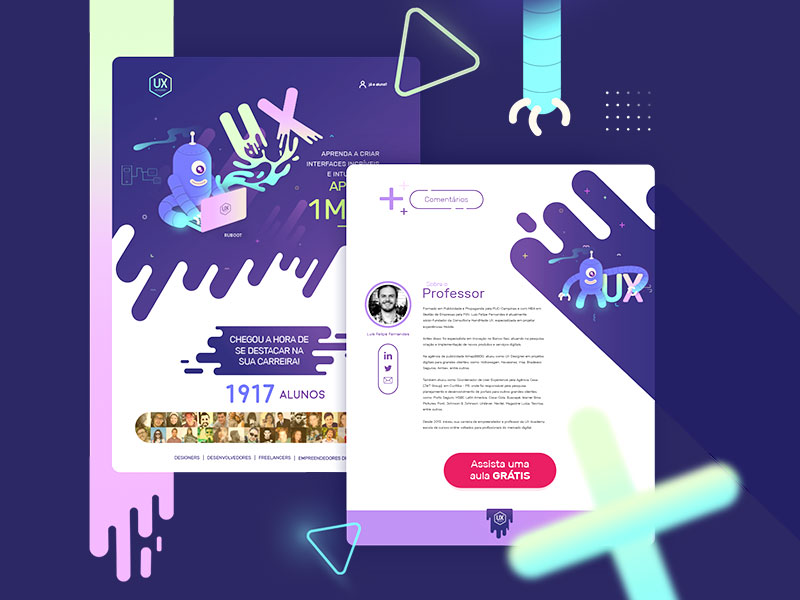
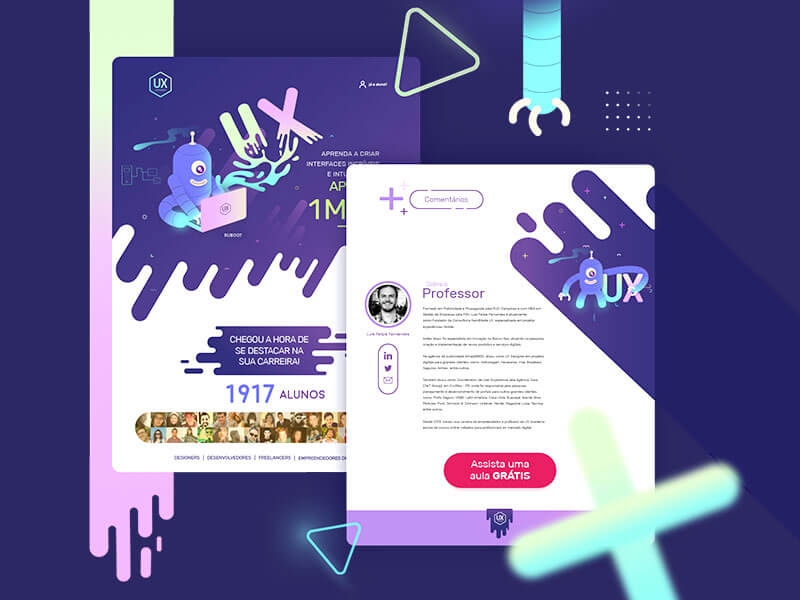
fixed main menu, markup was validated, img was minimized

diff --git a/index.html b/index.html
@@ -194,7 +194,7 @@
           <div class="services-tab">
             <ul>
               <li class="wow slideInDown" data-wow-offset="10">
-                <a href="#branding">
+                <a href="#brand">
                   <span class="icon-strategy"></span>
                   <span>branding</span>                  
                 </a>
@@ -218,13 +218,13 @@
                 </a>
               </li>
               <li class="wow slideInDown" data-wow-offset="10">
-                <a href="#photography">
+                <a href="#photo">
                   <span class="icon-camera"></span>
                   <span>photography</span>
                 </a>
               </li>                          
             </ul>
-            <div id="branding">
+            <div id="brand">
               <div class="row">
                 <div class="col col-4 col-md-12">
                   <blockquote>
@@ -316,7 +316,7 @@
               </div>
               <!-- /.row -->
             </div>
-            <div id="photography">
+            <div id="photo">
               <div class="row">
                 <div class="col col-4 col-md-12">
                   <blockquote>
@@ -724,7 +724,7 @@
     <!-- jQuery ui lib-->
     <script src="https://code.jquery.com/ui/1.12.1/jquery-ui.js"></script>
     <!-- Slick slider -->
-    <script type="text/javascript" src="https://cdnjs.cloudflare.com/ajax/libs/slick-carousel/1.9.0/slick.min.js"></script>
+    <script src="https://cdnjs.cloudflare.com/ajax/libs/slick-carousel/1.9.0/slick.min.js"></script>
      <!-- Google maps api -->
      <script src="https://maps.googleapis.com/maps/api/js?key=AIzaSyAQJ3qk4kYbCbaAmyks5XFzKT0jomyJZMs&callback=initMap"
      async defer></script>

diff --git a/js/header-on-scroll.js b/js/header-on-scroll.js
@@ -32,13 +32,20 @@ function onScroll(e) {
 $(window).on('scroll', onScroll); // вешаем событие на скролл в окне
 
 // Scroll to element
-const scrollBtn = $('[data-scroll]'); // ищем все элементы у которого есмть атрибут data-scroll
+function scrollTo(){
+    // Scroll to element
+    const scrollBtn = $('[data-scroll]');
 
-function onClick(e) {
-    e.preventDefault(); // отменить стандартное действие
-    const target = $(this).attr('data-scroll'); // получаем значение атрибута data-scroll 
-    const dist = $(target).offset().top; // меряем растояние до блока
-    $('html, body').animate({ scrollTop: dist }, 1000, 'swing'); // анимируем скролл до нужного блока 
+    function onScroll(e) {
+        e.preventDefault();
+
+        // Close slick nav
+        $('.header-nav').slicknav('close');
+        let target = $(this).attr('data-scroll');
+        let dist = $(target).offset().top;
+        $('html, body').animate({scrollTop: dist}, 1000, 'swing');
+    }
+
+    scrollBtn.on('click', onScroll);
 }
-
-scrollBtn.on('click', onClick); // отслеживаем событие клик на все элементы с атрр data-scroll
+$(window).on('load', scrollTo);
